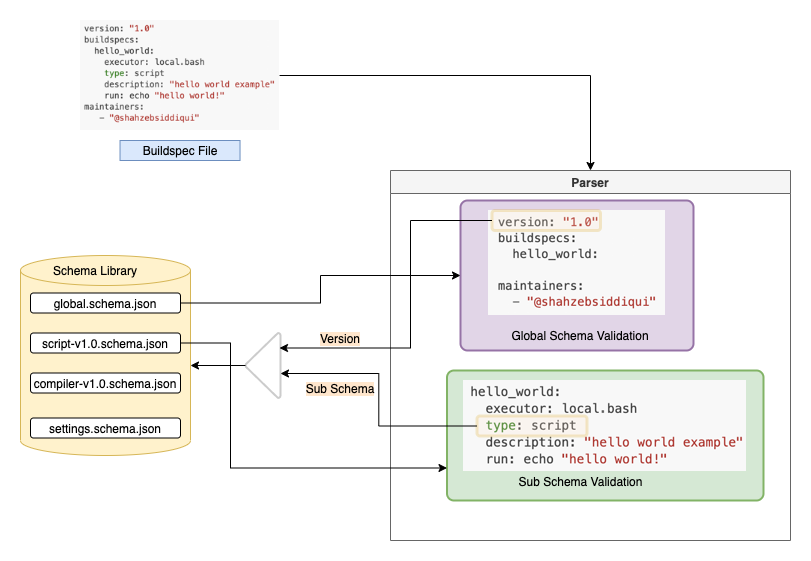
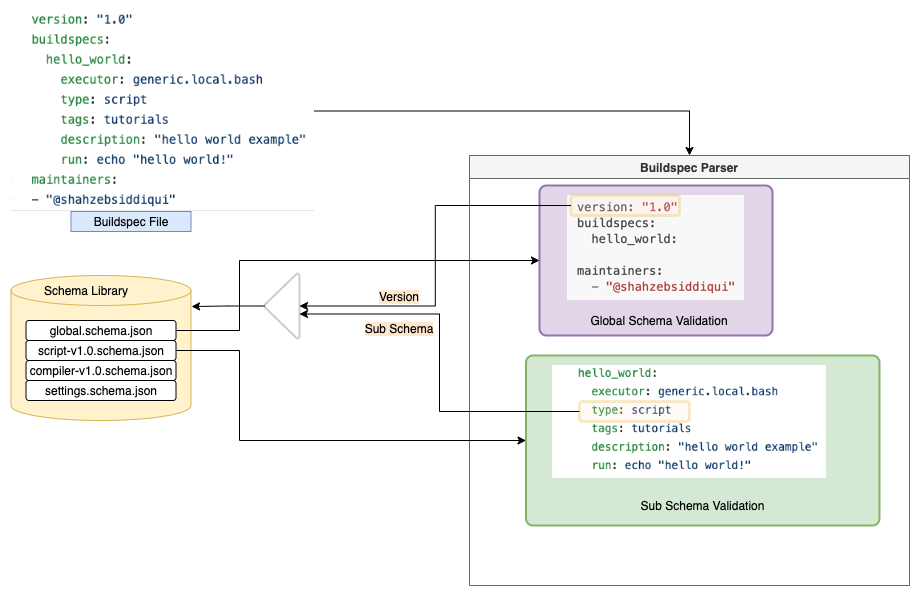
update diagrams for buildspec structure and Parser. Update documentation.

diff --git a/buildtest/menu/build.py b/buildtest/menu/build.py
@@ -494,7 +494,7 @@ class BuildTest:
     def build(self):
         """This method is responsible for implementating stages: parse, build, run, update. """
 
-        self.discover_buildspecs()
+        self.discover_buildspecs(printTable=True)
 
         # Parse all buildspecs and skip any buildspecs that fail validation, return type
         # is a builder object used for building test.
@@ -752,9 +752,9 @@ class BuildTest:
         if printTable:
             print(
                 """
-        +----------------------+
-        | Stage: Test Summary  |
-        +----------------------+ 
++----------------------+
+| Stage: Test Summary  |
++----------------------+ 
         """
             )
 

diff --git a/tests/buildsystem/test_base.py b/tests/buildsystem/test_base.py
@@ -39,7 +39,7 @@ def test_BuildspecParser(tmp_path):
 
     directory = os.path.join(here, "invalid_builds")
     # invalid builds for compiler schema tests. These tests will raise BuildTestError exception upon building
-    # even though they are valid buildspecs.
+    # even though they are valid buildspecs.\
     for buildspec in walk_tree(directory, ".yml"):
         buildspecfile = os.path.join(directory, buildspec)
         print("Processing buildspec", buildspecfile)

diff --git a/docs/index.rst b/docs/index.rst
@@ -3,9 +3,10 @@ buildtest
 
 This documentation was last rebuild on |today| and is intended for version |version|.
 
-Please refer to https://buildtest.readthedocs.io/en/latest/ for documentation
-on latest release. If you are working off `devel` branch then please to *devel*
-docs at https://buildtest.readthedocs.io/en/devel/.
+If you are working off a latest release please see  https://buildtest.readthedocs.io/en/latest/ for documentation.
+If you are working off `devel <https://github.com/buildtesters/buildtest/tree/devel>`_ branch then please refer to
+https://buildtest.readthedocs.io/en/devel/
+which references the `devel` branch.
 
 Status
 -----------
@@ -41,7 +42,6 @@ Test Repositories
 ------------------
 
 - Cori @ NERSC: https://github.com/buildtesters/buildtest-cori
-- Stampede2 @ TACC: https://github.com/buildtesters/buildtest-stampede2
 
 Useful Links
 -------------
@@ -66,24 +66,23 @@ Description
 ------------
 
 `buildtest <https://github.com/buildtesters/buildtest>`_  is
-a HPC testing framework to help sites perform acceptance & regression
-testing of an HPC system. buildtest utilizes `json schema <https://json-schema.org/>`_
-to define structure of test written in YAML called a  **Buildspec File**.
-The `schema docs <https://buildtesters.github.io/schemas/>`_ is a resource that
-hosts buildtest schemas and documents all field attributes for each schema, this will
-be useful when you are writting buildspecs.
+a testing framework to help HPC sites write test for their system as part of their
+routine acceptance & regression test. buildtest provides a YAML interface to write tests
+which buildtest can validate and generate shell scripts that can run on your HPC system.
+The test template (YAML) is called **buildspec** which can define one or more test instance
+that is validated by a `json schema <https://json-schema.org/>`_. buildtest supports the following batch schedulers
+for job submission: `IBM Spectrum LSF <https://www.ibm.com/support/knowledgecenter/SSWRJV_10.1.0/lsf_welcome/lsf_welcome.html>`_,
+`Slurm <https://slurm.schedmd.com/>`_, and `Cobalt <https://trac.mcs.anl.gov/projects/cobalt/>`_. We
+publish the schema documentation, json schemas, and schema examples at https://buildtesters.github.io/buildtesters/
+which is useful when you are :ref:`writing buildspecs <writing_buildspecs>`.
+
+To get started with buildtest, please see :ref:`installing buildtest <Setup>`  and
+:ref:`getting started guide <Getting_Started>`.
 
 A spin-off project called `lmodule <https://lmodule.readthedocs.io/en/latest/>`_
 is a Python API for `Lmod <https://lmod.readthedocs.io/en/latest/>`_. The buildtest
 module features were deprecated and moved to lmodule with the main objective is to
 automate module load testing. For more details on lmodule see https://github.com/buildtesters/lmodule
-
-To get started with buildtest, please review the :ref:`terminology`
-and proceed to :ref:`installing buildtest <Setup>`  followed by :ref:`getting started guide <Getting_Started>`.
-
-For additional reference, you can read :ref:`summary_of_buildtest` and
-:ref:`conferences`.
-
 
 .. toctree::
    :maxdepth: 2

diff --git a/docs/what_is_buildtest.rst b/docs/what_is_buildtest.rst
@@ -51,13 +51,13 @@ Shahzeb was tasked with testing the software ecosystem by focusing on the most
 important application due to time constraints. During this period, several dozen
 test scripts were developed in shell-script that targeted core HPC tools such as
 compilers, **MPI**, **R**, **Python**, etc. A single master script was used to
-run all the tests which led to buildtest.
+run all the tests which led to `buildtest`.
 
 Preview of buildtest
 ----------------------
 
 buildtest will process YAML files called **buildspecs** (build specification) and
-generate test scripts. There are several ways to discover buildspecs that may include:
+generate test scripts. There are several ways to build buildspecs that may include:
 
 .. code-block:: console
 
@@ -79,24 +79,26 @@ generate test scripts. There are several ways to discover buildspecs that may in
   # discover buildspecs based on tags
   $ buildtest build --tags network
 
+  # filter tests by tag name network
+  $ buildtest build --tags network --filter-tags network
+
   # discover buildspecs based on executors
-  $ buildtest build --executor local.sh
+  $ buildtest build --executor generic.local.sh
 
   # combine all options together
   $ buildtest build -b example.yml -b system --tags network -x system/kernel.yml
 
-buildtest will keep track of all test that can be queried using:
+
+buildtest will retrieve test results using `buildtest report` command which will display
+all test records. We can filter and format output of test records using the ``--filter``
+and ``--format`` option. Shown below is example usage:
 
 .. code-block:: console
 
   # report all tests
   $ buildtest report
 
-Alternately, one can filter and format rows/columns of the report table which
-can be useful when you want to analyze test results. This can be done using:
-
-.. code-block:: console
-
+  # filter and format test report
   $ buildtest report --filter KEY1=VALUE1,KEY2=VALUE2 --format <field1>,<field2>
 
   # show filter fields
@@ -104,6 +106,13 @@ can be useful when you want to analyze test results. This can be done using:
 
   # show format fields
   $ buildtest report --helpformat
+
+  # get oldest test record
+  $ buildtest report --oldest
+
+  # get latest test record
+  $ buildtest report --latest
+
 
 A single buildspec is composed of one or more tests and buildtest will run all tests
 by default. buildtest will assign a unique id for every test, if you want to inspect
@@ -167,7 +176,7 @@ buildtest is not
   - a replacement for benchmark tools or test suite from upstream package
   - a replacement for writing tests, you will need to write your tests defined by buildtest schemas, however you can copy/paste & adapt tests from other sites that are applicable to you.
 
-Typical use-case :
+Typical use-case:
 
   - Run your test suite during system maintenance
   - Perform daily tests for testing various system components. These tests should be short

diff --git a/docs/buildspecs/batch_support.rst b/docs/buildspecs/batch_support.rst
@@ -522,7 +522,7 @@ job as follows.
     buildspecs:
       sleep:
         type: script
-        executor: slurm.normal
+        executor: cori.slurm.knl_debug
         description: sleep 2 seconds
         tags: [tutorials]
         batch:
